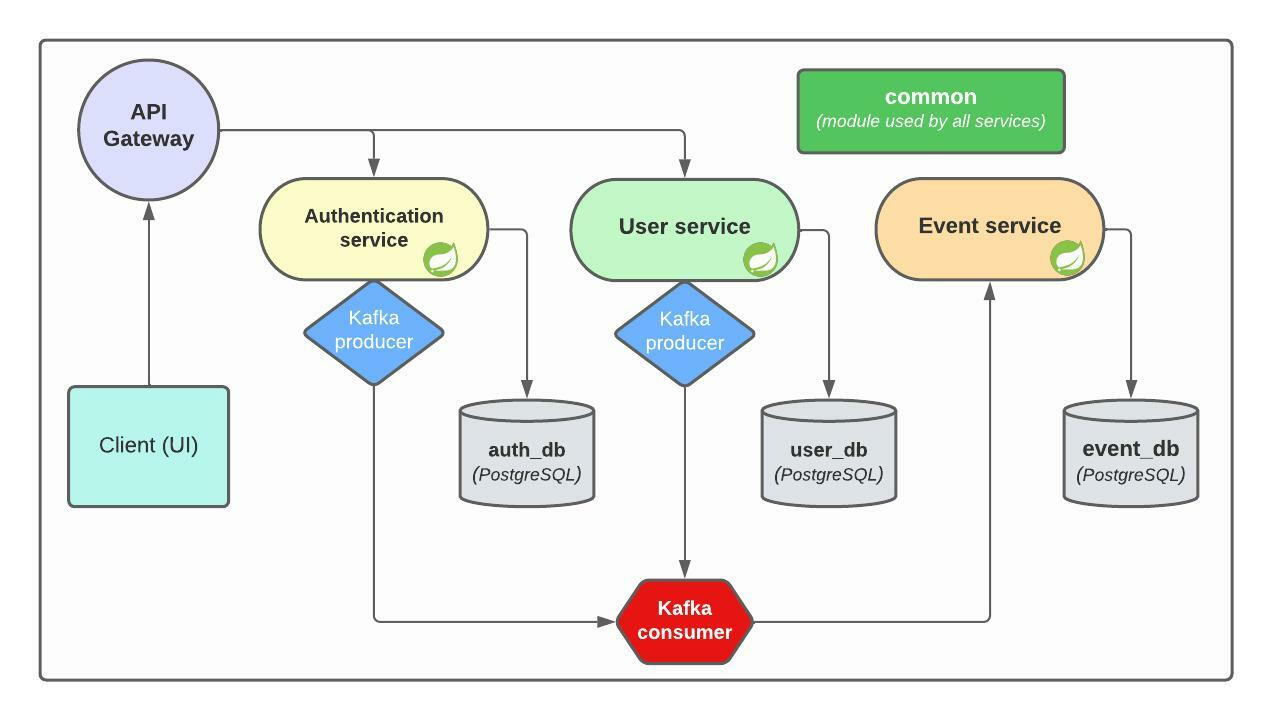
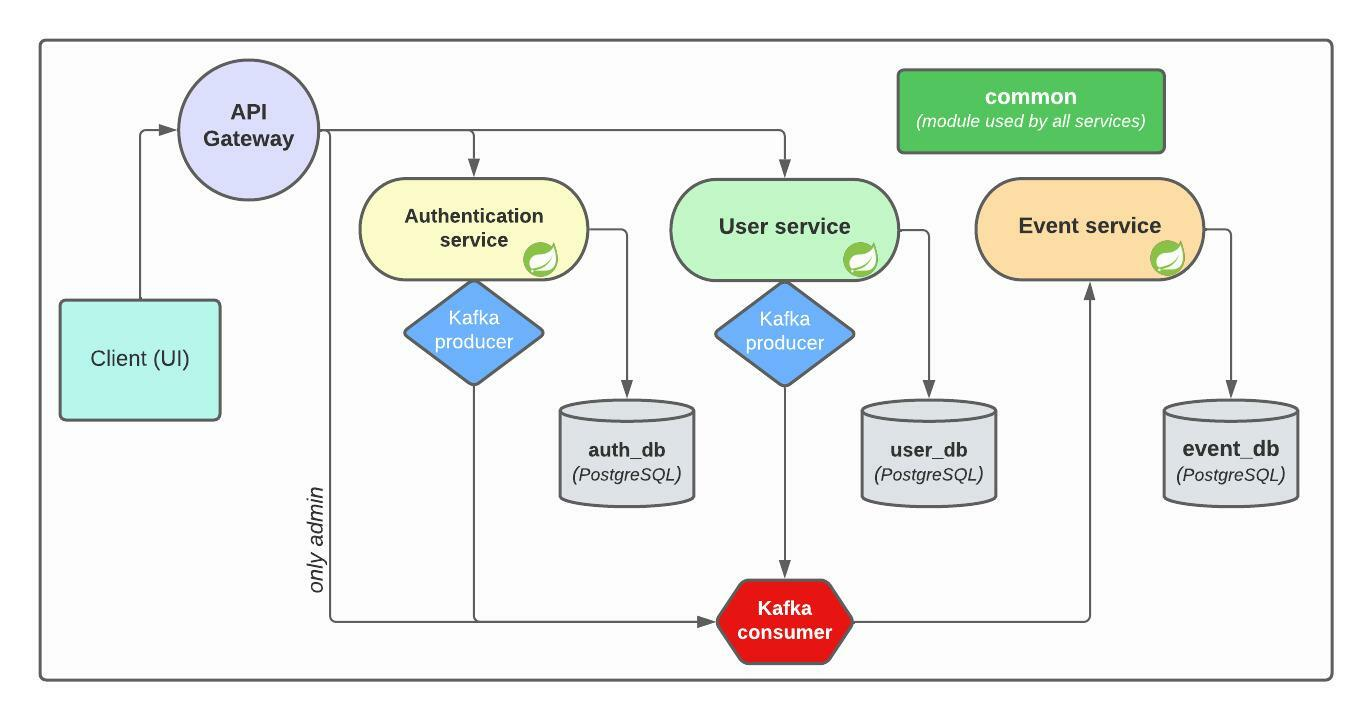
Fixed db creation type, remove event dto from event-service and fix diagram

diff --git a/event-service/src/main/java/com/mikaelparsekyan/eventservice/kafka/consumer/TopicEventConsumer.java b/event-service/src/main/java/com/mikaelparsekyan/eventservice/kafka/consumer/TopicEventConsumer.java
@@ -1,9 +1,9 @@
 package com.mikaelparsekyan.eventservice.kafka.consumer;
 
 import com.google.gson.Gson;
+import com.mikaelparsekyan.common.dto.EventDTO;
 import com.mikaelparsekyan.common.kafka.Topic;
 import com.mikaelparsekyan.eventservice.service.EventService;
-import com.mikaelparsekyan.eventservice.service.dto.EventDTO;
 import lombok.RequiredArgsConstructor;
 import org.apache.kafka.clients.consumer.ConsumerRecord;
 import org.springframework.kafka.annotation.KafkaListener;

diff --git a/event-service/src/main/java/com/mikaelparsekyan/eventservice/service/EventService.java b/event-service/src/main/java/com/mikaelparsekyan/eventservice/service/EventService.java
@@ -1,8 +1,8 @@
 package com.mikaelparsekyan.eventservice.service;
 
+import com.mikaelparsekyan.common.dto.EventDTO;
 import com.mikaelparsekyan.eventservice.persistence.model.Event;
 import com.mikaelparsekyan.eventservice.persistence.repository.EventRepository;
-import com.mikaelparsekyan.eventservice.service.dto.EventDTO;
 import lombok.AllArgsConstructor;
 import lombok.extern.slf4j.Slf4j;
 import org.modelmapper.ModelMapper;
